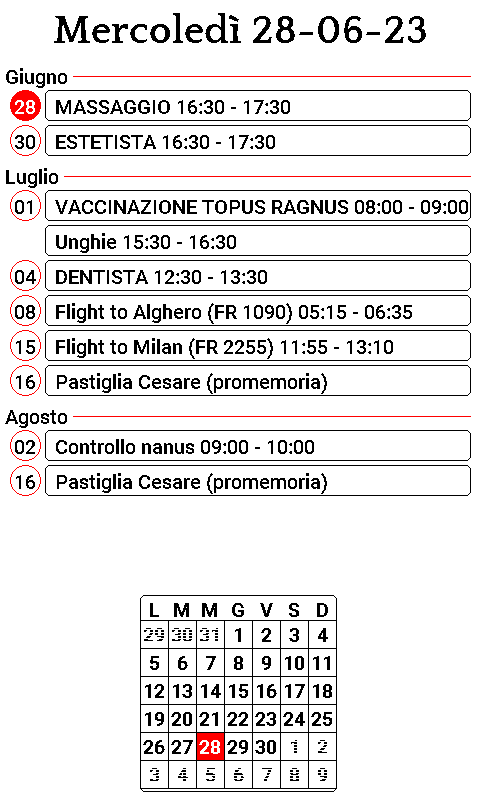
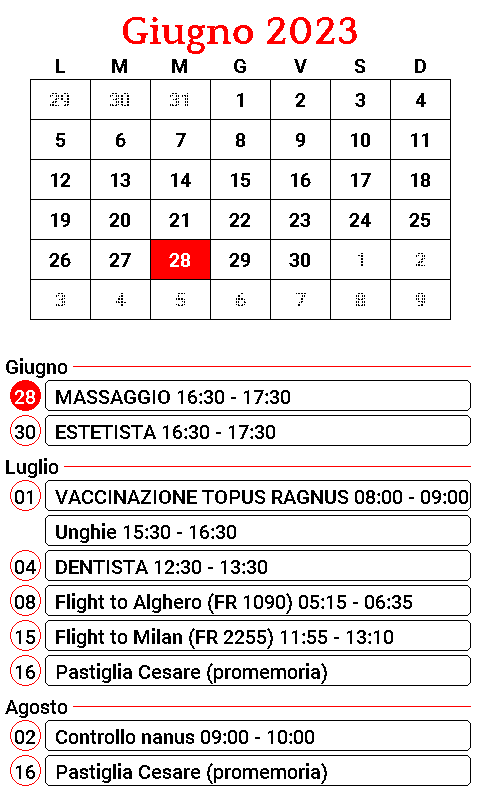
1

Changed region(s): [[0.0, 0.0, 1.0, 1.0]]

diff --git a/flib copy.py b/flib copy.py
@@ -22,7 +22,7 @@ boxh=68
 
 days=['L','M','M','G','V','S','D']
 daysFull=['Lunedì','Martedì','Mercoledì','Giovedì','Venerdì','Sabato','Domenica']
-months=['Gennaio','Febbraio','Marzo','Aprile','Maggio','Giugno','Luglio','Agosto','Settembre','Ottobre','Novembre','Dicembre']
+
 
 # If modifying these scopes, delete the file token.json.
 SCOPES = ['https://www.googleapis.com/auth/calendar.readonly']
@@ -49,43 +49,49 @@ def getEventStartEndFormatted(x):
 
 
 def drawPreview(blackDraw,redDraw,currenty,margin):
-
-    titlesize=40
-    titleFont = ImageFont.truetype("./fonts/Quattrocento-Bold.ttf", size=titlesize)
-    mex = months[today.month -1] +" "+ str(today.year)
-    _, _, tw, th = blackDraw.textbbox((0, 0), mex , font=titleFont)
-    redDraw.text(((width-tw)/2, 10), mex, font=titleFont, fill=0)
-
     font_size = 20
     image_height = font_size*10
     image_width = image_height
-    
+    posx=width/2 -image_height/2
+    posy=height - image_height - margin
     # Set the dimensions of the image
 
      # Calculate the cell dimensions
-    cell_width = 60
-    cell_height = 40
+    cell_width = image_width // 7
+    cell_height = cell_width
     image_width = cell_width*7
-    image_height = (height / 2) - margin
+    image_height = image_width
+    
 
-    posx=(width-image_width) / 2
-    posy=margin*2+th
-
+    blackDraw.rounded_rectangle((posx,posy, posx+image_width,posy+image_height), radius=5, fill=None, outline=None, width=1)
 
     # Set the font properties
     
     font = ImageFont.truetype('./fonts/Roboto-Regular.ttf', font_size)
     fontBold = ImageFont.truetype('./fonts/Roboto-Bold.ttf', font_size)
 
-    num_days = calendar.monthrange(today.year, today.month)[1]
-    first_day_weekday = today.replace(day=1).weekday()
+    # Get the number of days in the current month
+    num_days = calendar.monthrange(datetime.date.today().year, datetime.date.today().month)[1]
+
+    # Get the day of the week for the first day of the month
+    first_day_weekday = datetime.date.today().replace(day=1).weekday()
+
+    
+
+   
+
+    # Calculate the starting position for drawing the calendar
     start_x = posx
     start_y = posy + font_size + 5
-    
+
+    # Draw the calendar string
+
+    # Draw the calendar cells
+    today = datetime.date.today()
     for day in range(0, 7):
         x = start_x + cell_width * day
         _, _, bw, bh = blackDraw.textbbox((0,0), days[day],font=fontBold)
-        blackDraw.text((x+cell_width/2-bw/2, posy), days[day], fill='black', font=fontBold)
+        blackDraw.text((x+cell_width/2-bw/2, posy+cell_height/2-bh/2-1), days[day], fill='black', font=fontBold)
 
     startDay = datetime.date.today().replace(day=1) - datetime.timedelta(days=first_day_weekday)
     currentmonth = datetime.date.today().month
@@ -152,9 +158,17 @@ def generate():
         red = Image.new("1", (width,height), color=255)
         blackDraw = ImageDraw.Draw(black)
         redDraw = ImageDraw.Draw(red)
+        titlesize=40
+        titleFont = ImageFont.truetype("./fonts/Quattrocento-Bold.ttf", size=titlesize)
+        mex = daysFull[today.weekday()] + " "+ today.strftime("%d-%m-%y")
+        _, _, w, h = blackDraw.textbbox((0, 0), mex , font=titleFont)
+        blackDraw.text(((width-w)/2, 10), mex, font=titleFont, fill=0)
+
+        upMargin=10*2 + h
         margin=2
         c = 0
         
+        months=['Gennaio','Febbraio','Marzo','Aprile','Maggio','Giugno','Luglio','Agosto','Settembre','Ottobre','Novembre','Dicembre']
         headfont = ImageFont.truetype("./fonts/Roboto-Regular.ttf", size=20)
         
         for c in filter(lambda cal: cal['id'].startswith("family"), calendars['items']):
@@ -171,7 +185,7 @@ def generate():
         
         day = ""
         month = ""
-        currenty=350
+        currenty=titlesize + 20
 
         baseFontSize=20
         font = ImageFont.truetype("./fonts/Roboto-Medium.ttf", size=baseFontSize)
